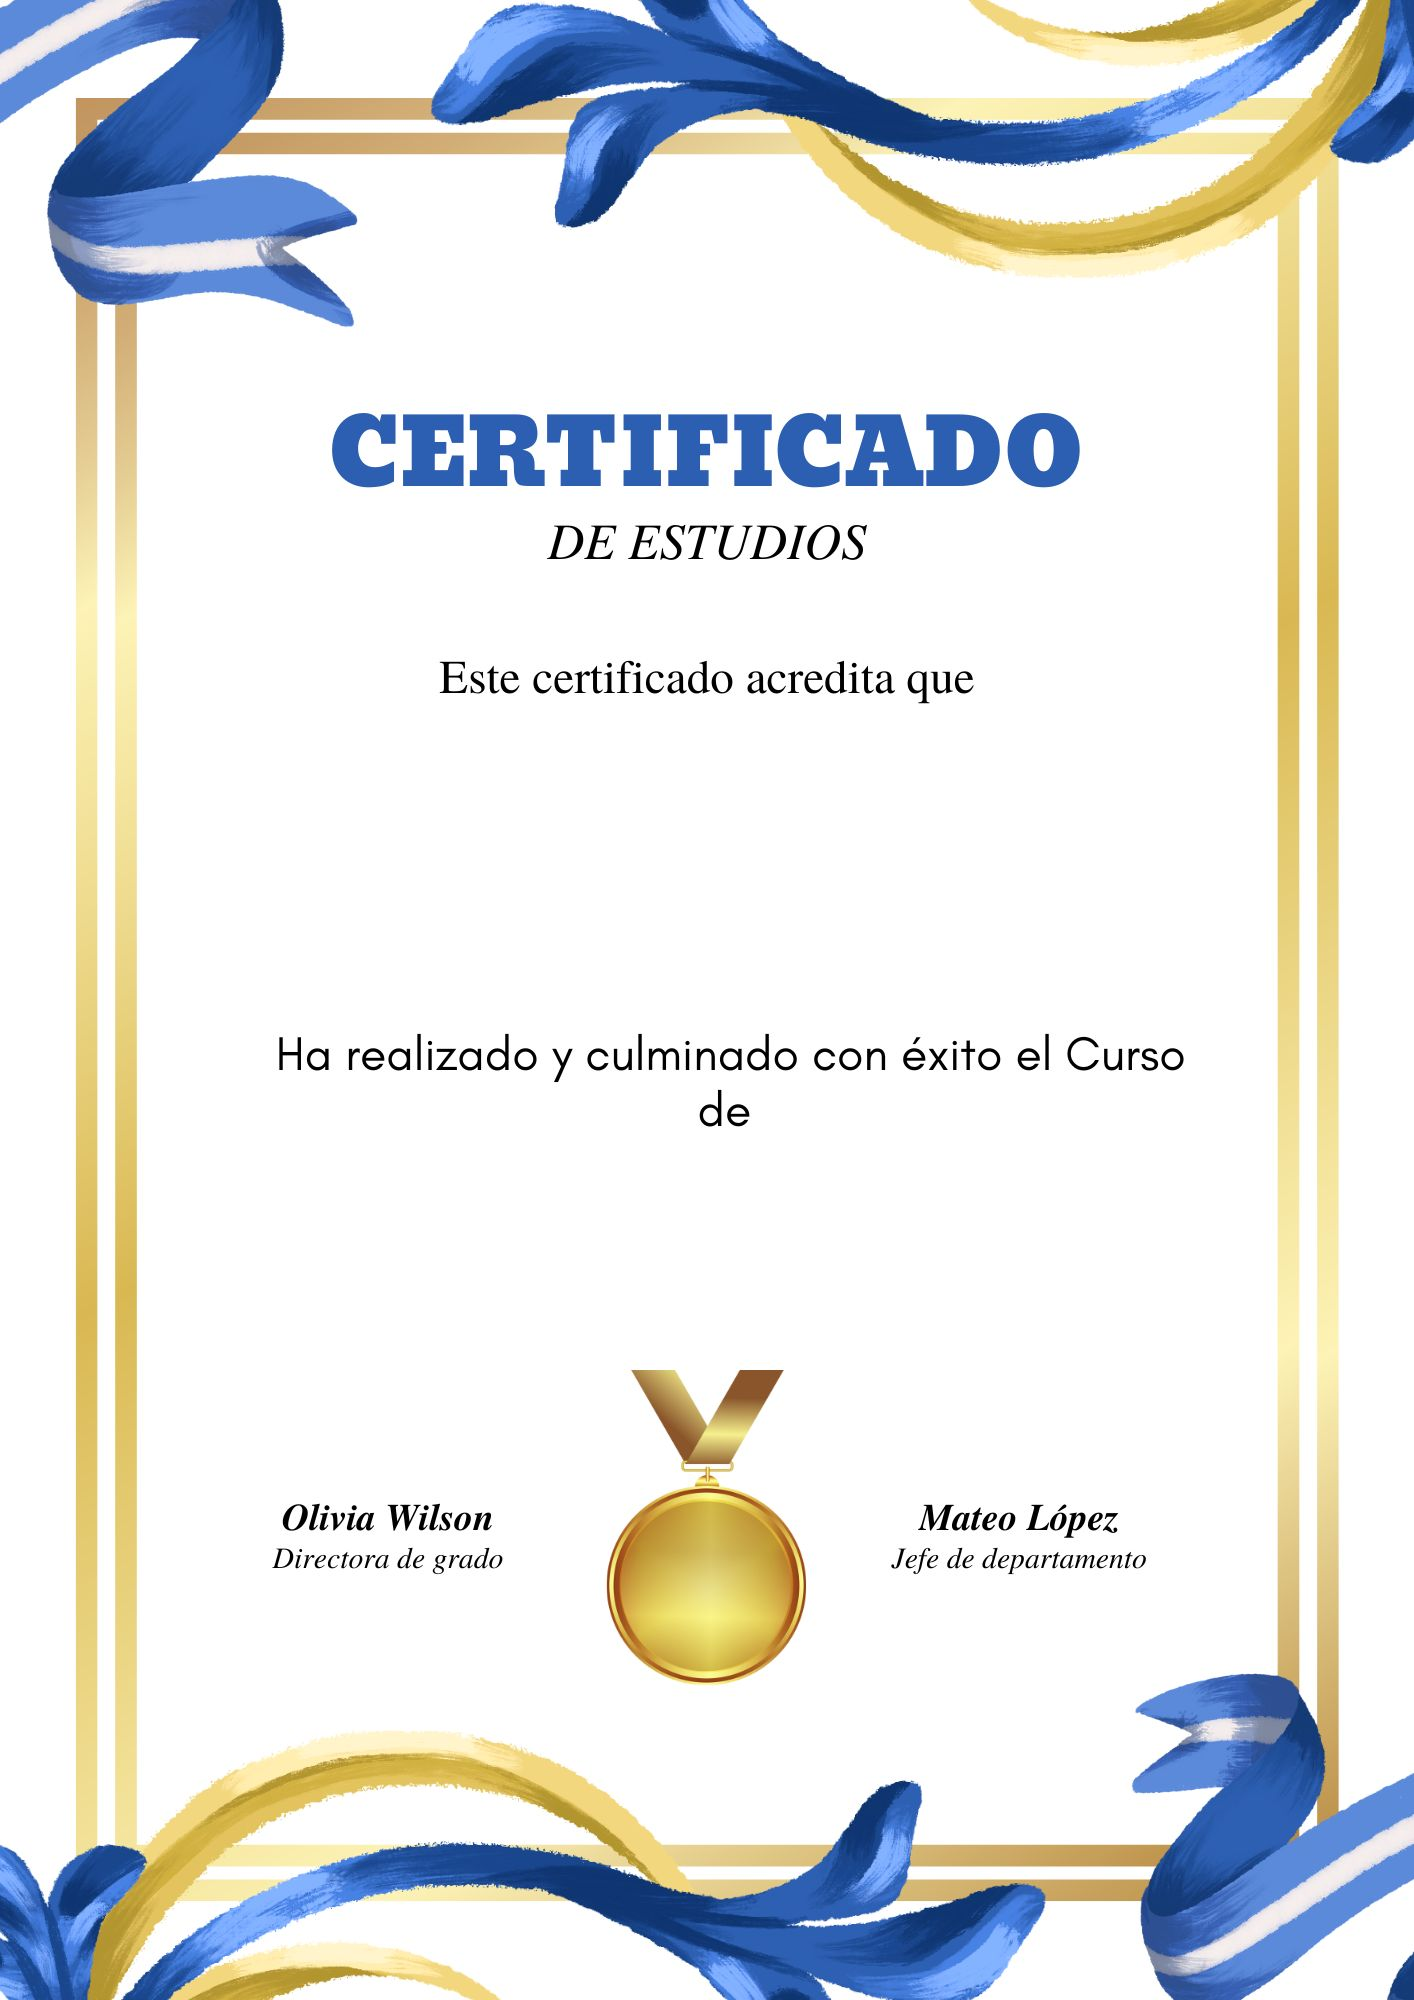
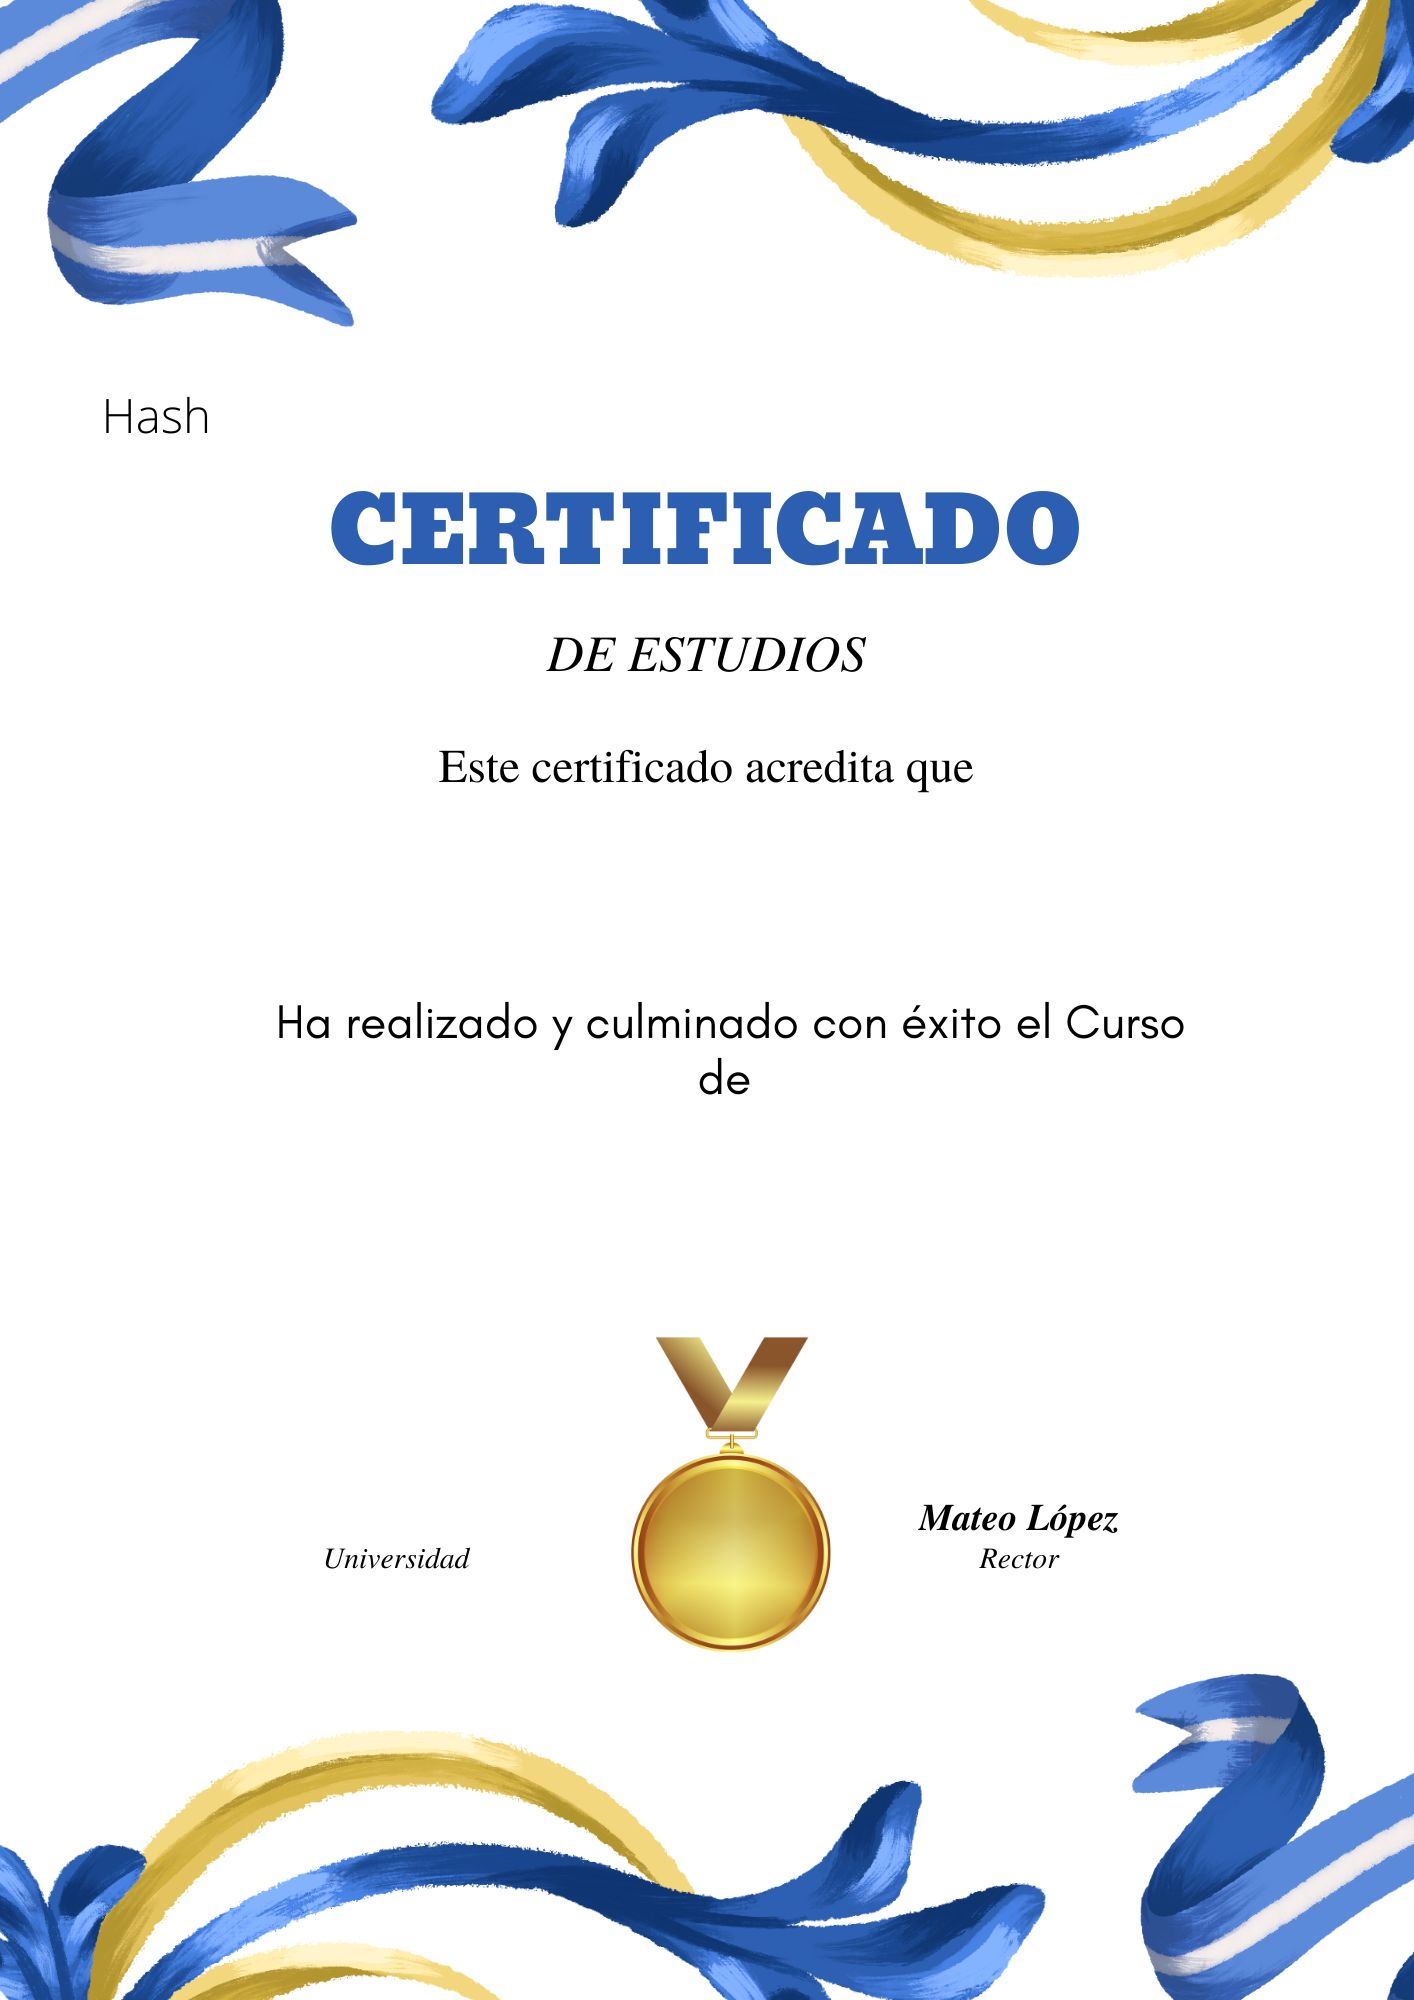
Se agrega cambios

diff --git a/App/app.js b/App/app.js
@@ -47,14 +47,14 @@ async function generatePDF(universidad, nombres,carrera,fecha,transaccion) {
 
 
     pdf.setFontSize(12);
-    pdf.text(carrera, 235, 480);
+    pdf.text(carrera, 285, 480);
 
     
     pdf.setFontSize(10);
-    pdf.text(universidad, 270, 325);
+    pdf.text(universidad, 170, 600);
     pdf.text(nombres, 270, 350);
-    pdf.text(fecha, 270, 375);
-    pdf.text(transaccion, 300, 700);
+    pdf.text(fecha, 300, 700 );
+    pdf.text(transaccion, 110, 170);
 
 
     pdf.setFillColor(0, 0, 0);
